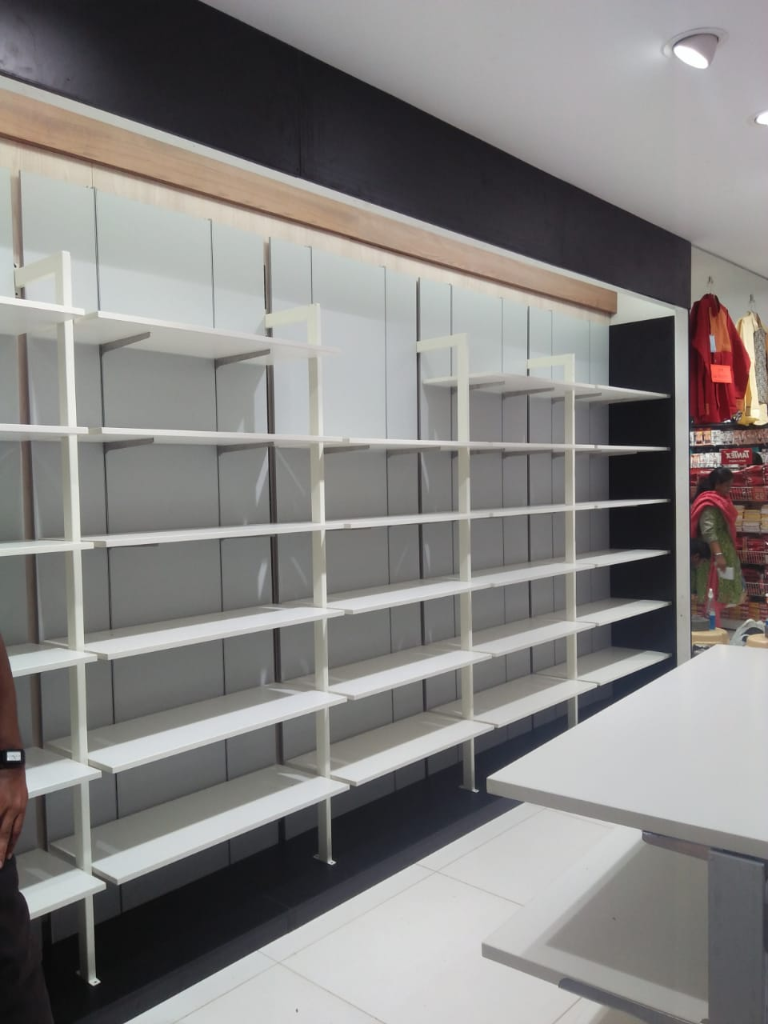
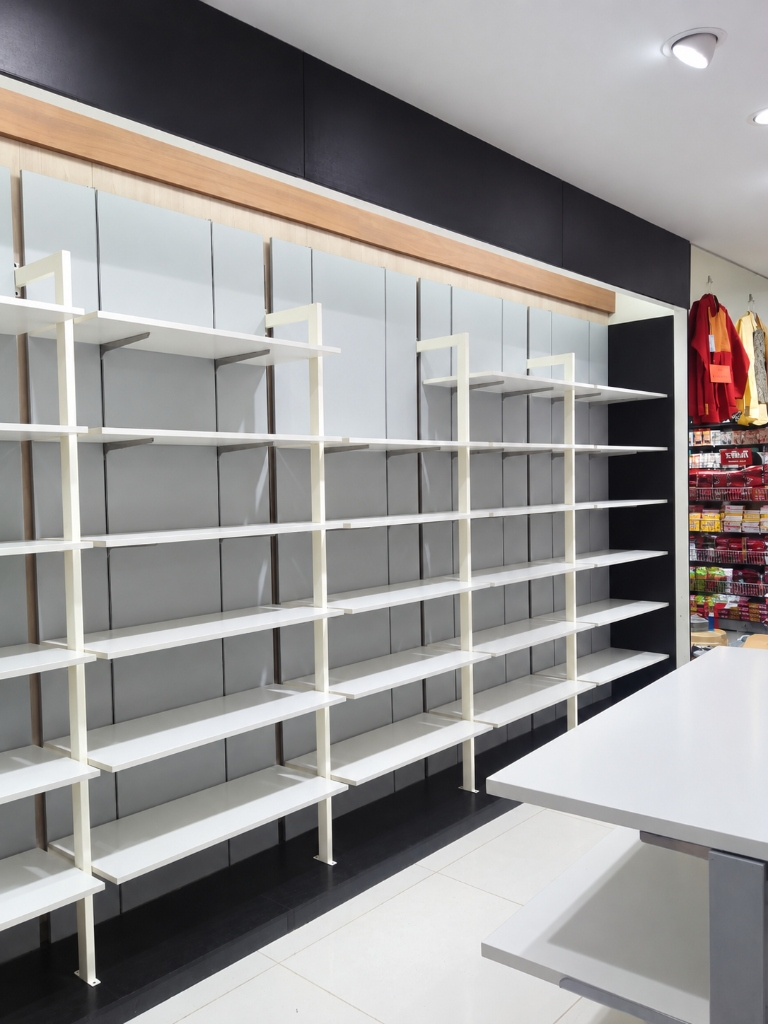
feat: place high-res showroom wall shelving image in About Us section across index.html and about.html

diff --git a/index.html b/index.html
@@ -225,8 +225,8 @@
         <!-- Right Image with Angular Orange Corner Accent -->
         <div class="lg:col-span-5 relative" data-aos="fade-left">
           <div class="relative rounded-3xl overflow-hidden shadow-xl border border-slate-200 bg-slate-100">
-            <img src="about-sasi-steels.png" onerror="this.onerror=null;this.src='image copy 7.png'" 
-                 alt="SASI Steel Engineering Fabrication" 
+            <img src="about-sasi-steels-hd.jpg" onerror="this.onerror=null;this.src='about-sasi-steels.png'" 
+                 alt="SASI Steel Engineering Showroom Fabrication" 
                  class="w-full h-72 sm:h-80 object-cover" />
             <!-- Orange Angular Slash Accent -->
             <div class="absolute bottom-0 right-0 w-16 h-16 bg-gradient-to-tl from-orange-500 to-transparent transform rotate-45 translate-x-8 translate-y-8"></div>

diff --git a/about.html b/about.html
@@ -165,7 +165,7 @@
         <!-- Left Visuals -->
         <div class="lg:col-span-6 relative" data-aos="fade-right">
           <div class="relative rounded-3xl overflow-hidden shadow-2xl border-4 border-white bg-slate-100">
-            <img src="about-sasi-steels.png" onerror="this.onerror=null;this.src='image copy 7.png'" 
+            <img src="about-sasi-steels-hd.jpg" onerror="this.onerror=null;this.src='about-sasi-steels.png'" 
                  alt="SASI Steel Engineering Showroom Fabrication" 
                  class="w-full h-[420px] object-cover" />
             <div class="absolute bottom-0 right-0 w-20 h-20 bg-gradient-to-tl from-orange-500 to-transparent transform rotate-45 translate-x-10 translate-y-10"></div>
